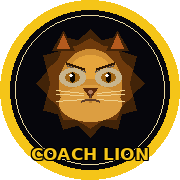
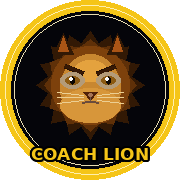
Add files via upload

diff --git a/app.js b/app.js
@@ -854,7 +854,7 @@ const App={
       bioAvail&&!bioReg?{i:'👁',l:'Activar Face ID / Huella',f:'App.saveBiometric()'}:null,
       bioAvail&&bioReg?{i:'🔓',l:'Desactivar Face ID / Huella',f:'App.removeBiometric()'}:null,
       {i:'👁',l:u.privacy_leaderboard!==false?'Ocultar del ranking':'Mostrar en el ranking',f:'App.togglePrivacy()'},
-      {i:'📸',l:'Fotos de progreso',f:"App.goTo('progress')"},
+
       {i:'📲',l:'Instalar App',f:'App.triggerInstall()'},
       {i:'📤',l:'Exportar datos',f:'App.exportData()'},
       {i:'🚪',l:'Cerrar sesión',f:'App.logout()',d:true},
@@ -968,7 +968,7 @@ const App={
     document.querySelector(`.nb[data-p="${page}"]`)?.classList.add('active');
     if(page==='achievements')await this.renderAchs();
     if(page==='routines')await this.renderRoutines();
-    if(page==='progress'){await this.renderCharts();await this.renderPhotos();}
+    if(page==='progress'){await this.renderCharts();await this.renderPhotos();await this.renderWeightMini();}
     if(page==='coach'&&S.isCoach)await this.renderCoach();
     if(page==='profile')await this.updateProfile();
     if(page==='leaderboard')await this.renderLeaderboard();
@@ -1623,17 +1623,112 @@ Pregunta: ${txt}`;
 
   // ── CALCULATORS ──
   openCalc(t){
-    const titles={'1rm':'🏋 CALCULADORA 1RM',cal:'🔥 CALORÍAS QUEMADAS',macros:'🥩 MACROS DIARIOS',bmi:'📊 ÍNDICE DE MASA CORPORAL'};
+    const titles={'1rm':'🏋 1RM',cal:'🔥 CALORÍAS',macros:'🥩 MACROS',bmi:'📊 IMC'};
     $('calc-title').textContent=titles[t];
     const w=S.user?.weight||'',h=S.user?.height||'',age=S.user?.age||'';
     const b={'1rm':`<div class="calc-sec"><p style="font-size:11px;color:var(--wdim)">Fórmula de Epley: peso × (1 + reps/30)</p><div class="field"><span>⚖</span><input id="c-w" type="number" placeholder="Peso usado (kg)"></div><div class="field"><span>🔢</span><input id="c-r" type="number" placeholder="Repeticiones"></div><button class="btn-gold" onclick="App.c1rm()">CALCULAR</button><div id="calc-out"></div></div>`,cal:`<div class="calc-sec"><div class="field"><span>⚖</span><input id="c-bw" type="number" placeholder="Tu peso (kg)" value="${w}"></div><div class="field"><span>⏱</span><input id="c-min" type="number" placeholder="Duración (min)"></div><div class="field"><span>🏃</span><select id="c-act"><option value="3.5">Pesas moderado</option><option value="5">Pesas intenso</option><option value="7">Cardio moderado</option><option value="10">HIIT</option><option value="12">Correr rápido</option></select></div><button class="btn-gold" onclick="App.cCal()">CALCULAR</button><div id="calc-out"></div></div>`,macros:`<div class="calc-sec"><div class="field"><span>⚖</span><input id="c-mw" type="number" placeholder="Peso (kg)" value="${w}"></div><div class="field"><span>📏</span><input id="c-mh" type="number" placeholder="Altura (cm)" value="${h}"></div><div class="field"><span>🎂</span><input id="c-ma" type="number" placeholder="Edad" value="${age}"></div><div class="field"><span>⚧</span><select id="c-mg"><option value="m">Masculino</option><option value="f">Femenino</option></select></div><div class="field"><span>📅</span><select id="c-act2"><option value="1.375">Ligero (1-3/sem)</option><option value="1.55">Moderado (3-5/sem)</option><option value="1.725">Activo (6-7/sem)</option></select></div><button class="btn-gold" onclick="App.cMacros()">CALCULAR</button><div id="calc-out"></div></div>`,bmi:`<div class="calc-sec"><div class="field"><span>⚖</span><input id="c-bw2" type="number" placeholder="Peso (kg)" value="${w}"></div><div class="field"><span>📏</span><input id="c-bh" type="number" placeholder="Altura (cm)" value="${h}"></div><button class="btn-gold" onclick="App.cBMI()">CALCULAR</button><div id="calc-out"></div></div>`};
     $('calc-body').innerHTML=b[t]||'';this.openModal('modal-calc');
   },
-  c1rm(){const w=parseFloat($('c-w')?.value),r=parseInt($('c-r')?.value);if(!w||!r)return toast('Completa los campos');const rm=(w*(1+r/30)).toFixed(1);$('calc-out').innerHTML=`<div class="calc-res"><div class="calc-val">${rm} kg</div><div class="calc-lbl">1RM estimado · ${Math.round(rm*0.85)} kg × 3 reps · ${Math.round(rm*0.75)} kg × 8 reps</div></div>`;},
-  cCal(){const bw=parseFloat($('c-bw')?.value),min=parseInt($('c-min')?.value),met=parseFloat($('c-act')?.value)||3.5;if(!bw||!min)return toast('Completa los campos');const cal=Math.round(met*bw*min/60*3.5/200*bw);$('calc-out').innerHTML=`<div class="calc-res"><div class="calc-val">${cal} kcal</div><div class="calc-lbl">Estimado en ${min} min</div></div>`;},
-  cMacros(){const w=parseFloat($('c-mw')?.value),h=parseFloat($('c-mh')?.value),a=parseInt($('c-ma')?.value),g=$('c-mg')?.value,act=parseFloat($('c-act2')?.value)||1.55;if(!w||!h||!a)return toast('Completa los campos');const bmr=g==='m'?(10*w)+(6.25*h)-(5*a)+5:(10*w)+(6.25*h)-(5*a)-161;const tdee=Math.round(bmr*act);const goal=S.user?.goal||'hypertrophy';const kcal=goal==='weightloss'?tdee-400:['strength','hypertrophy'].includes(goal)?tdee+200:tdee;const prot=Math.round(w*2.2),fat=Math.round(kcal*0.25/9),carbs=Math.round((kcal-prot*4-fat*9)/4);$('calc-out').innerHTML=`<div class="calc-res"><div class="calc-val">${kcal} kcal</div><div class="calc-lbl">Calorías diarias</div></div><div class="macro-g"><div class="macro-i"><div class="macro-v">${prot}g</div><div class="macro-l">🥩 PROTEÍNA</div></div><div class="macro-i"><div class="macro-v">${carbs}g</div><div class="macro-l">🍚 CARBOS</div></div><div class="macro-i"><div class="macro-v">${fat}g</div><div class="macro-l">🥑 GRASA</div></div></div>`;},
-  async cBMI(){const w=parseFloat($('c-bw2')?.value),h=parseFloat($('c-bh')?.value);if(!w||!h)return toast('Completa los campos');const bmi=(w/Math.pow(h/100,2)).toFixed(1);const cat=bmi<18.5?'Bajo peso':bmi<25?'Peso saludable ✅':bmi<30?'Sobrepeso':bmi<35?'Obesidad I':'Obesidad II+';const col=bmi<18.5?'#00e5ff':bmi<25?'#76ff03':bmi<30?'#f5c518':bmi<35?'#ff9800':'#e53935';if(S.user){S.user.bmi=bmi;await DB.saveUser(S.user);}$('calc-out').innerHTML=`<div class="calc-res"><div class="calc-val" style="color:${col}">${bmi}</div><div class="calc-lbl">${cat}</div></div>`;},
-
+  c1rm(){
+    const w=parseFloat($('c-w')?.value),r=parseInt($('c-r')?.value);
+    if(!w||!r)return toast('Completa los campos');
+    const rm=parseFloat((w*(1+r/30)).toFixed(1));
+    const pcts=[{p:100,l:'1RM Máximo',c:'#f5c518'},{p:95,l:'95% · Fuerza máxima',c:'#ff6f00'},{p:90,l:'90% · Fuerza',c:'#ff9800'},{p:85,l:'85% · Potencia',c:'#4caf50'},{p:80,l:'80% · Hipertrofia',c:'#00bcd4'},{p:75,l:'75% · Volumen',c:'#9c27b0'},{p:70,l:'70% · Resistencia',c:'#607d8b'}];
+    const bars=pcts.map(x=>{const kg=(rm*x.p/100).toFixed(1);const repsEst=x.p>=95?1:x.p>=90?2:x.p>=85?3:x.p>=80?5:x.p>=75?8:x.p>=70?10:12;return`<div class="calc-bar-row"><div class="calc-bar-label"><span style="color:${x.c};font-weight:700">${x.p}%</span><span class="calc-bar-desc">${x.l}</span></div><div class="calc-bar-track"><div class="calc-bar-fill" style="width:${x.p}%;background:${x.c}"></div></div><div class="calc-bar-kg">${kg}kg<span class="calc-reps-hint">~${repsEst}rep</span></div></div>`;}).join('');
+    $('calc-out').innerHTML=`<div class="calc-hero"><div class="calc-hero-val">${rm}</div><div class="calc-hero-unit">kg · 1RM</div></div><div class="calc-bars">${bars}</div>`;
+  },
+  cCal(){
+    const bw=parseFloat($('c-bw')?.value),min=parseInt($('c-min')?.value),met=parseFloat($('c-act')?.value)||3.5;
+    if(!bw||!min)return toast('Completa los campos');
+    const cal=Math.round(met*bw*min/60*3.5/200*bw);
+    const pct=Math.min(cal/800*100,100);
+    const col=cal<200?'#4caf50':cal<400?'#f5c518':cal<600?'#ff9800':'#e53935';
+    const tip=cal<200?'Actividad ligera':'Actividad moderada';
+    $('calc-out').innerHTML=`
+      <div class="calc-hero" style="border-color:${col}">
+        <div class="calc-hero-icon">🔥</div>
+        <div class="calc-hero-val" style="color:${col}">${cal}</div>
+        <div class="calc-hero-unit">kcal quemadas</div>
+        <div class="calc-hero-sub">${min} minutos · ${tip}</div>
+      </div>
+      <div class="calc-ring-wrap">
+        <svg viewBox="0 0 120 120" class="calc-ring-svg">
+          <circle cx="60" cy="60" r="50" fill="none" stroke="var(--d3)" stroke-width="10"/>
+          <circle cx="60" cy="60" r="50" fill="none" stroke="${col}" stroke-width="10"
+            stroke-dasharray="${2*Math.PI*50}" stroke-dashoffset="${2*Math.PI*50*(1-pct/100)}"
+            stroke-linecap="round" transform="rotate(-90 60 60)" style="transition:stroke-dashoffset .8s ease"/>
+        </svg>
+        <div class="calc-ring-label">${Math.round(pct)}%<br><span style="font-size:10px;color:var(--wdim)">del límite</span></div>
+      </div>`;
+  },
+  cMacros(){
+    const w=parseFloat($('c-mw')?.value),h=parseFloat($('c-mh')?.value),a=parseInt($('c-ma')?.value),g=$('c-mg')?.value,act=parseFloat($('c-act2')?.value)||1.55;
+    if(!w||!h||!a)return toast('Completa los campos');
+    const bmr=g==='m'?(10*w)+(6.25*h)-(5*a)+5:(10*w)+(6.25*h)-(5*a)-161;
+    const tdee=Math.round(bmr*act);
+    const goal=S.user?.goal||'hypertrophy';
+    const kcal=goal==='weightloss'?tdee-400:['strength','hypertrophy'].includes(goal)?tdee+200:tdee;
+    const prot=Math.round(w*2.2),fat=Math.round(kcal*0.25/9),carbs=Math.round((kcal-prot*4-fat*9)/4);
+    const protKcal=prot*4,carbsKcal=carbs*4,fatKcal=fat*9,total=protKcal+carbsKcal+fatKcal||1;
+    const protPct=Math.round(protKcal/total*100),carbsPct=Math.round(carbsKcal/total*100),fatPct=Math.round(fatKcal/total*100);
+    // Donut SVG
+    const r=44,circ=2*Math.PI*r;
+    const seg1=circ*protPct/100,seg2=circ*carbsPct/100,seg3=circ*fatPct/100;
+    const off1=0,off2=circ-seg1,off3=circ-(seg1+seg2);
+    $('calc-out').innerHTML=`
+      <div class="calc-hero"><div class="calc-hero-val">${kcal}</div><div class="calc-hero-unit">kcal / día</div><div class="calc-hero-sub">${GL[goal]||goal} · TMB ${Math.round(bmr)} · TDEE ${tdee}</div></div>
+      <div class="macro-donut-wrap">
+        <svg viewBox="0 0 100 100" class="macro-donut">
+          <circle cx="50" cy="50" r="${r}" fill="none" stroke="#e53935" stroke-width="12" stroke-dasharray="${seg1} ${circ-seg1}" stroke-dashoffset="${circ*0.25}" stroke-linecap="round"/>
+          <circle cx="50" cy="50" r="${r}" fill="none" stroke="#f5c518" stroke-width="12" stroke-dasharray="${seg2} ${circ-seg2}" stroke-dashoffset="${circ*0.25-seg1}" stroke-linecap="round"/>
+          <circle cx="50" cy="50" r="${r}" fill="none" stroke="#4caf50" stroke-width="12" stroke-dasharray="${seg3} ${circ-seg3}" stroke-dashoffset="${circ*0.25-seg1-seg2}" stroke-linecap="round"/>
+          <text x="50" y="46" text-anchor="middle" font-size="10" fill="var(--white)" font-family="Orbitron,sans-serif">MACROS</text>
+          <text x="50" y="58" text-anchor="middle" font-size="7" fill="var(--wdim)">diarios</text>
+        </svg>
+      </div>
+      <div class="macro-cards">
+        <div class="macro-card" style="border-color:#e53935"><div class="mc-icon">🥩</div><div class="mc-val">${prot}g</div><div class="mc-name">PROTEÍNA</div><div class="mc-pct" style="color:#e53935">${protPct}%</div><div class="mc-kcal">${protKcal} kcal</div></div>
+        <div class="macro-card" style="border-color:#f5c518"><div class="mc-icon">🍚</div><div class="mc-val">${carbs}g</div><div class="mc-name">CARBOS</div><div class="mc-pct" style="color:#f5c518">${carbsPct}%</div><div class="mc-kcal">${carbsKcal} kcal</div></div>
+        <div class="macro-card" style="border-color:#4caf50"><div class="mc-icon">🥑</div><div class="mc-val">${fat}g</div><div class="mc-name">GRASA</div><div class="mc-pct" style="color:#4caf50">${fatPct}%</div><div class="mc-kcal">${fatKcal} kcal</div></div>
+      </div>`;
+  },
+  async cBMI(){
+    const w=parseFloat($('c-bw2')?.value),h=parseFloat($('c-bh')?.value);
+    if(!w||!h)return toast('Completa los campos');
+    const bmi=parseFloat((w/Math.pow(h/100,2)).toFixed(1));
+    const ranges=[
+      {max:16,  label:'Delgadez severa', col:'#0288d1', tip:'Consulta con un médico'},
+      {max:18.5,label:'Bajo peso',        col:'#00bcd4', tip:'Aumenta tu ingesta calórica'},
+      {max:25,  label:'Peso saludable ✅',col:'#4caf50', tip:'¡Mantén ese ritmo!'},
+      {max:30,  label:'Sobrepeso',        col:'#f5c518', tip:'Reduce calorías y entrena'},
+      {max:35,  label:'Obesidad I',       col:'#ff9800', tip:'Busca asesoría nutricional'},
+      {max:999, label:'Obesidad II+',     col:'#e53935', tip:'Consulta con un especialista'},
+    ];
+    const range=ranges.find(r=>bmi<r.max)||ranges[ranges.length-1];
+    const col=range.col;
+    // Gauge: BMI de 15 a 40
+    const minB=15,maxB=40,pct=Math.min(Math.max((bmi-minB)/(maxB-minB)*100,0),100);
+    const gradStops='#0288d1 0%,#00bcd4 15%,#4caf50 35%,#f5c518 60%,#ff9800 75%,#e53935 100%';
+    if(S.user){S.user.bmi=bmi;await DB.saveUser(S.user);}
+    $('calc-out').innerHTML=`
+      <div class="calc-hero" style="border-color:${col}">
+        <div class="calc-hero-val" style="color:${col}">${bmi}</div>
+        <div class="calc-hero-unit">IMC</div>
+        <div class="bmi-badge" style="background:${col}22;color:${col};border:1px solid ${col}">${range.label}</div>
+        <div class="calc-hero-sub" style="margin-top:6px">${range.tip}</div>
+      </div>
+      <div class="bmi-gauge-wrap">
+        <div class="bmi-gauge-track" style="background:linear-gradient(90deg,${gradStops})">
+          <div class="bmi-gauge-needle" style="left:${pct}%"></div>
+        </div>
+        <div class="bmi-gauge-labels">
+          <span>15</span><span>18.5</span><span>25</span><span>30</span><span>35</span><span>40</span>
+        </div>
+      </div>
+      <div class="bmi-scale">
+        ${ranges.slice(0,-1).map(rr=>`<div class="bmi-scale-item${bmi<rr.max&&bmi>=(ranges[ranges.indexOf(rr)-1]?.max||0)?' bmi-active':''}"><div class="bmi-dot" style="background:${rr.col}"></div><span>${rr.label}</span></div>`).join('')}
+      </div>`;
+  },
   // ── COACH PANEL ──
   async renderCoach(){
     const users=await DB.getAllUsers();const c=$('athletes-list');if(!c)return;

diff --git a/styles.css b/styles.css
@@ -558,3 +558,60 @@ input,select,textarea{font-family:var(--fu);font-size:15px}button{font-family:va
 /* ── PAGE TRANSITION ── */
 .page.active{animation:page-in .22s ease}
 @keyframes page-in{from{opacity:0;transform:translateY(5px)}to{opacity:1;transform:translateY(0)}}
+
+/* ══════════════════════════════════
+   CALCULADORAS — DISEÑO PREMIUM v15
+   ══════════════════════════════════ */
+
+/* Hero result */
+.calc-hero{text-align:center;padding:20px 16px;background:var(--d3);border-radius:16px;border:2px solid var(--borderb);margin-bottom:14px;position:relative;overflow:hidden}
+.calc-hero::before{content:'';position:absolute;inset:0;background:radial-gradient(ellipse at 50% 0%,rgba(245,197,24,.08),transparent 70%);pointer-events:none}
+.calc-hero-icon{font-size:28px;margin-bottom:4px}
+.calc-hero-val{font-family:var(--fd);font-size:48px;letter-spacing:2px;color:var(--gold);line-height:1}
+.calc-hero-unit{font-family:var(--fu);font-size:12px;letter-spacing:3px;color:var(--wdim);margin-top:4px}
+.calc-hero-sub{font-size:11px;color:var(--wdim);margin-top:8px}
+.bmi-badge{display:inline-block;padding:4px 14px;border-radius:20px;font-family:var(--fu);font-size:11px;font-weight:700;letter-spacing:2px;margin-top:8px}
+
+/* 1RM Bars */
+.calc-bars{display:flex;flex-direction:column;gap:8px}
+.calc-bar-row{display:flex;align-items:center;gap:8px}
+.calc-bar-label{width:90px;flex-shrink:0}
+.calc-bar-label span:first-child{font-family:var(--fd);font-size:13px;display:block}
+.calc-bar-desc{font-size:9px;color:var(--wdim);letter-spacing:.5px}
+.calc-bar-track{flex:1;height:8px;background:var(--d3);border-radius:4px;overflow:hidden}
+.calc-bar-fill{height:100%;border-radius:4px;transition:width .6s cubic-bezier(.4,0,.2,1)}
+.calc-bar-kg{font-family:var(--fd);font-size:12px;width:55px;text-align:right;flex-shrink:0}
+.calc-reps-hint{font-size:9px;color:var(--wdim);display:block;text-align:right}
+
+/* Calorías ring */
+.calc-ring-wrap{position:relative;width:120px;height:120px;margin:10px auto 0}
+.calc-ring-svg{width:100%;height:100%}
+.calc-ring-label{position:absolute;inset:0;display:flex;flex-direction:column;align-items:center;justify-content:center;font-family:var(--fd);font-size:18px;text-align:center}
+
+/* Macros donut */
+.macro-donut-wrap{display:flex;justify-content:center;margin:8px 0}
+.macro-donut{width:120px;height:120px}
+.macro-cards{display:grid;grid-template-columns:repeat(3,1fr);gap:8px;margin-top:10px}
+.macro-card{background:var(--d3);border:2px solid var(--border);border-radius:14px;padding:12px 8px;text-align:center;transition:transform .2s}
+.macro-card:active{transform:scale(0.97)}
+.mc-icon{font-size:20px;margin-bottom:4px}
+.mc-val{font-family:var(--fd);font-size:20px;letter-spacing:1px}
+.mc-name{font-family:var(--fu);font-size:9px;letter-spacing:2px;color:var(--wdim);margin:2px 0}
+.mc-pct{font-family:var(--fu);font-size:14px;font-weight:700}
+.mc-kcal{font-size:9px;color:var(--wdim);margin-top:2px}
+
+/* BMI Gauge */
+.bmi-gauge-wrap{margin:12px 0 8px}
+.bmi-gauge-track{position:relative;height:14px;border-radius:7px;overflow:visible}
+.bmi-gauge-needle{position:absolute;top:-4px;width:4px;height:22px;background:#fff;border-radius:2px;transform:translateX(-50%);box-shadow:0 2px 6px rgba(0,0,0,.5);transition:left .8s cubic-bezier(.4,0,.2,1)}
+.bmi-gauge-labels{display:flex;justify-content:space-between;font-size:9px;color:var(--wdim);margin-top:6px;padding:0 2px}
+.bmi-scale{display:flex;flex-direction:column;gap:5px;margin-top:10px}
+.bmi-scale-item{display:flex;align-items:center;gap:8px;font-size:12px;padding:5px 8px;border-radius:8px;transition:background .2s}
+.bmi-active{background:var(--d3);font-weight:700}
+.bmi-dot{width:10px;height:10px;border-radius:50%;flex-shrink:0}
+
+/* ── NUEVO LOGO en splash ── */
+.splash-icon-img{width:120px;height:120px;border-radius:50%;object-fit:cover;margin-bottom:16px;
+  box-shadow:0 0 0 4px var(--gold),0 0 30px rgba(245,197,24,.4),0 0 60px rgba(245,197,24,.15);
+  animation:splash-pop .7s cubic-bezier(0.34,1.56,0.64,1)}
+@keyframes splash-pop{0%{transform:scale(0) rotate(-10deg);opacity:0}100%{transform:scale(1) rotate(0deg);opacity:1}}

diff --git a/index.html b/index.html
@@ -408,6 +408,7 @@
     <button class="nb" onclick="App.goTo('workout')" data-p="workout"><span>⚡</span><span>ENTRENA</span></button>
     <button class="nb" onclick="App.goTo('routines')" data-p="routines"><span>📋</span><span>RUTINAS</span></button>
     <button class="nb" onclick="App.goTo('recipes')" data-p="recipes"><span>🥗</span><span>RECETAS</span></button>
+    <button class="nb" onclick="App.goTo('progress')" data-p="progress"><span>📸</span><span>PROGRESO</span></button>
     <button class="nb" onclick="App.goTo('ai-coach')" data-p="ai-coach"><span>🤖</span><span>IA</span></button>
     <button class="nb" onclick="App.goTo('achievements')" data-p="achievements"><span>🏆</span><span>LOGROS</span></button>
   </nav>
@@ -515,6 +516,7 @@
   <div class="modal-card">
     <div class="modal-head"><h3 id="calc-title">CALCULADORA</h3><button onclick="App.closeModal('modal-calc')">✕</button></div>
     <div id="calc-body"></div>
+    <div id="calc-result-area"></div>
   </div>
 </div>
 
